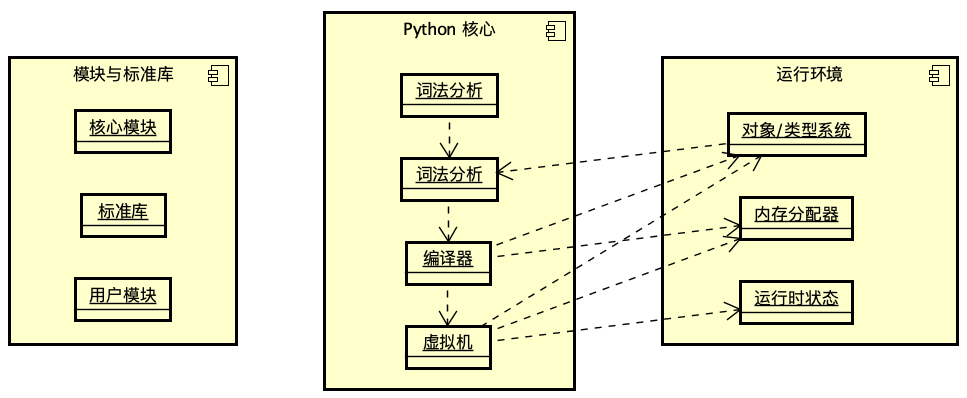
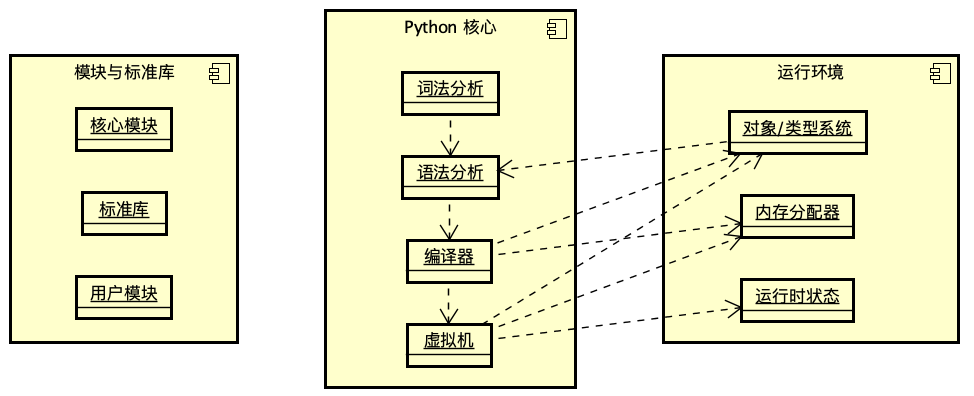
fix bug

diff --git a/python/pyobject2.md b/python/pyobject2.md
@@ -2,19 +2,19 @@
  * @Author: Hiseh
  * @Date: 2020-08-15 11:06:24
  * @LastEditors: Hiseh
- * @LastEditTime: 2020-08-15 22:25:44
+ * @LastEditTime: 2020-08-15 23:21:10
  * @Description: 
 -->
 
 # Python对象的本质
 
-为了进一步了解Python中对象概念，我们需要看看Python源码，下面我都会用`Python 3.7.4`举例子说明，使用`Python 2`的读者请注意，2和3差别还是很大的。
+为了进一步了解Python中对象概念，我们应该看看Python源码，下面我会用`Python 3.7.4`举例子说明，使用`Python 2`的读者请注意，2和3差别还是很大的。
 
 ## Python总体架构
 
 ![Python架构](../img/pyobject/arch_1.png)
 
-如图所示，Python总体架构可分为三部分，左边是Python自带的各种模块（Core Modules）、库（Library）以及用户自定义模块（User-defined Modules）。最右边是Python运行时环境，包括对象/类型系统（Object/Type Structures），内存分配器（Memory Allocator）和运行时状态（Current State of Python）。运行时状态维护了解释器在执行字节码时不同状态之间的切换动作，可以简单理解为大个有穷状态机。内存分配器负责创建和销毁对象是对内存的分配及回收动作。**对象/类型系统负责管理Python各种对象和类型体系，是我们重点关注部分。**
+如图所示，Python总体架构可分为三部分，左边是Python自带的各种模块（Core Modules）、库（Library）以及用户自定义模块（User-defined Modules）。最右边是Python运行时环境，包括对象/类型系统（Object/Type Structures），内存分配器（Memory Allocator）和运行时状态（Current State of Python）。运行时状态维护了解释器在执行字节码时不同状态之间的切换动作，可以简单理解为大个有穷状态机。内存分配器负责创建和销毁对象时内存的分配及回收动作。**对象/类型系统负责管理Python各种对象和类型体系，是本文重点关注部分。**
 <br/>
 中间为Python核心，箭头是Python运行时的数据流方向。词法分析（Scanner）负责把源码切分成一个个token，语法分析（Parser）负责建立抽象语法树（AST），编译器（Compiler）负责生成字节码，最后由虚拟机（Code Evaluator）来执行字节码。核心和运行环境之间的虚线表示模块之间**调用和修改**关系。
 
@@ -27,18 +27,18 @@
 -  **Doc** 和 **Grammar** 包含各种文档文件。
 - **include** 包含所有C头文件，如果我们要编译自定义模块扩展Python，需要用到这里的文件。
 - **Lib** 包含所有Python语言编写的标准库。
-- **Modules** 包含所有C语言编写的标准库。通常对速度要求高的库用C写，在Modules下，对速度不敏感的用Python写，在Lib下。
+- **Modules** 包含所有C语言编写的标准库。通常对速度要求高的库用C写，在Modules下；对速度不敏感的用Python写，在Lib下。
 - **Parser** 包含Python核心的词法和语法分析部分，此外还包含语法分析工具，方便我们调试Python环境。
 - **Python** 包含Python核心的编译器及虚拟机部分。
 - **PCBuild** 包含VS的工程文件。
 - **Mac** 包含Mac环境编译设置文件（Makefile格式）
 - **Object** 包含所有Python内置对象，本文仅仅关注此模块内容。
 
-Python源码仅提供Visual Studio和Makefile格式的工程文件，可以找第三方Makefile转CMake工具转换成CMake项目。
+Python源码仅提供Visual Studio和Makefile格式的工程文件，习惯CMake的用户可以找第三方Makefile转CMake工具转换成CMake项目。
 
 ## Python一切对象的根基——PyObject
 
-常见的面向对象语言都有**类**和**对象**两个概念，Python里`class`也是一种对象，它们通常成为`type`（类型对象），`class`实例化的对象也叫对象，我们称为**实例对象**。上页我们还说了可变对象和不可变对象的区别，在Python中还有定长对象和不定长对象概念，它们之间区别如下：
+常见的面向对象语言都有**类**和**对象**两个概念，但Python里概念不太一样。在Python里，`class`也是一种对象，它们通常被称为**类型对象**（`type`），`class`实例化的产出物也叫对象，我们称为**实例对象**（`object`）。上页我们还介绍了可变对象和不可变对象，在Python中还有定长对象和不定长对象概念，它们之间区别如下：
 |类别|定义|
 |:--:|:--|
 |可变对象|对象创建后可以修改，修改不会改变对象地址|
@@ -61,9 +61,9 @@ typedef struct {
 } PyVarObject;
 ```
 
-从代码里可以看到，两个根对象`PyVarObject`为不定长对象的根，`PyObject`是定长对象和`PyVarObject`的根。
+从代码里可以看到，`PyVarObject`为不定长对象的根，`PyObject`是定长对象和`PyVarObject`的根。
 
-我们首先分析`PyObject`，结构体第一行是个宏`_PyObject_HEAD_EXTRA`，这个宏定义也在*object.h*里：
+首先看看`PyObject`，结构体第一行是个宏`_PyObject_HEAD_EXTRA`，这个宏定义也在*object.h*里：
 
 ```c
 // 这个宏仅仅用来跟踪Python调用过程时，增加个双向链表，正常编译会略过。
@@ -80,7 +80,7 @@ typedef struct {
 #endif
 ```
 
-第二行定了一个引用计数变量`ob_refcnt;`，`Py_ssize_t`就是`intptr_t`的别名，可以简单理解成有符号的`size_t`。第三行定义了类型指针`ob_type`，指向对象的类型对象。
+第二行定了一个引用计数变量`ob_refcnt`，`Py_ssize_t`就是`intptr_t`的别名，可以简单理解成有符号的`size_t`。第三行定义了类型指针`ob_type`，指向对象的类型对象。
 
 接着看`PyVarObject`，它在`PyObject`基础上增加了`ob_size`字段，用来记录元素个数。
 
@@ -91,7 +91,7 @@ typedef struct {
 #define PyObject_VAR_HEAD   PyVarObject ob_base;
 ```
 
-比如定长对象`PyFloatObject`，只需要在`PyObject`基础上加个`double`的值变量：
+比如定长对象`PyFloatObject`，只需要在`PyObject`基础上加个`double`值变量：
 
 ```c
 typedef struct {
@@ -100,19 +100,19 @@ typedef struct {
 } PyFloatObject
 ```
 
-而变长对象`PyListObject`，则在`PyVarObject`基础上两个变量，一个动态数组总长度，一个为数组指针。
+而变长对象`PyListObject`，则在`PyVarObject`基础上增加两个变量，一个动态数组总长度，一个为数组指针。
 
 ```c
 typedef struct {
     PyObject_VAR_HEAD
-    PyObject **ob_item;     //数组指针，数组保存元素指针。
-    Py_ssize_t allocated;   //数组长度，注意，与PyVarObject中定义的ob_size元素个数区别。
+    PyObject **ob_item;     //数组指针，数组里保存元素指针。
+    Py_ssize_t allocated;   //数组长度，注意与PyVarObject中定义的ob_size元素个数区别。
 } PyListObject;
 ```
 
-> 这里特别说一下`int`对象类型，*Python 2*里`int`也是定长对象，但到了*Python 3*，在`PyLongObject`里用一个`ob_digit`数组管理整数，最后整数对象的值是`SUM(for i=0 through abs(ob_size)-1) ob_digit[i] * 2**(SHIFT*i)`，`SHIFT`表示每个数字占有的位数。
+> 这里特别解释一下`int`对象类型，*Python 2*里`int`是定长对象，但到了*Python 3*，则去掉`PyIntObject`对象，改为`PyLongObject`，`PyLongObject`里用一个`ob_digit`数组管理整数，最后整数对象的值是`SUM(for i=0 through abs(ob_size)-1) ob_digit[i] * 2**(SHIFT*i)`，其中`SHIFT`表示每个数字占有的位数。
 > 
-> 为了证明整数是变长对象我们可以用一下代码验证
+> 为了证明整数是变长对象，可以用代码验证
 > ```py
 > >>> sys.getsizeof(1000000000)
 > 28
@@ -122,7 +122,7 @@ typedef struct {
 
 ### 初始化对象
 
-*object.h*中还有两个初始化对象的宏也重要
+*object.h*中有两个初始化对象的宏也重要
 
 ```c
 #define PyObject_HEAD_INIT(type)        \
@@ -130,7 +130,7 @@ typedef struct {
     1, type },
 ```
 
-从名字就能看出来`PyObject_HEAD_INIT`负责初始化定长对象，它会把引用计数（`ob_refcnt`）设为1（因为Python里`ob_refcnt`就会触发回收机制），同时设定对象为传入的类型。`_PyObject_EXTRA_INIT`也是个宏，更简单了，就是个标记位。
+从名字就能看出来`PyObject_HEAD_INIT`负责初始化定长对象，它会把引用计数（`ob_refcnt`）设为1（因为Python里`ob_refcnt == 0`就会触发回收机制），同时设定对象的传入类型。`_PyObject_EXTRA_INIT`也是个宏，就是个标记位，在调试时用。
 
 ```
 #define PyVarObject_HEAD_INIT(type, size)       \
@@ -139,20 +139,18 @@ typedef struct {
 
 `PyVarObject_HEAD_INIT`负责初始化不定长对象，它除了调用`PyObject_HEAD_INIT`部分外，还会设定`ob_size`元素。
 
-看完`PyObject`源码，我们发现所有Python对象，内存开始几个字节内容都是固定的，对象开头都是引用计数和类型指针，变长对象还包括元素个数。这么设计当然是方便实现继承了，但系统却无法凭这几个字节区分出不同的对象类型，怎么判断它们所支持的操作呢，而且上面初始化过程也没看到分配内存的步骤，凭常识也能知道初始化不会这么简单。
+看完`PyObject`源码，我们发现所有Python对象，内存开始的几个字节内容都是统一的，对象开头是引用计数和类型指针，变长对象还包括元素个数。这么设计当然是方便实现继承了，但系统无法凭这几个字节区分出不同的对象类型，怎么判断它们所支持的操作呢，而且上面初始化过程也没看到分配内存的步骤，凭常识也能知道初始化不会这么简单。
 
-这里是Python一个容易让人迷惑的地方：对象和类型对象，上面的问题都是通过类型对象管理的。
+## PyTypeObject 对象的元信息
 
-## PyTypeObject对象的元信息
-
-上页我们了解过类型对象，知道**类型对象负责维护对象的特定信息，比如内存分配，比如特定的操作方法**。前面一节也说了`PyObject`结构体第三行定义了类型指针`ob_type`，指向对象的类型对象，现在我们就看一下这个类型对象。
+上一页我们了解过类型对象，知道**类型对象负责维护对象的特定信息，比如内存分配，特定的操作方法**。前一节也说了`PyObject`结构体第三行定义了类型指针`ob_type`，指向对象的类型对象，现在我们就看一下这个类型对象。
 
 `PyTypeObject`也在*object.h*中定义，这个结构体比较长，只摘出我们关心的代码分析：
 
 ```c
 typedef struct _typeobject {
     PyObject_VAR_HEAD
-    const char *tp_name;        // 类型名称
+    const char *tp_name;                    // 类型名称
     Py_ssize_t tp_basicsize, tp_itemsize;   // 创建实例时所需的内存信息
 
     // 标准函数指针
@@ -166,7 +164,7 @@ typedef struct _typeobject {
     getattrofunc tp_getattro;
     setattrofunc tp_setattro;
 
-    struct _typeobject *tp_base;    // 父类对象指针
+    struct _typeobject *tp_base;            // 父类对象指针
 } PyTypeObject;
 ```
 
@@ -191,18 +189,18 @@ PyTypeObject PyFloat_Type = {
 
 `a`和`b`都是`PyFloatObject`结构体的实例，在`ob_fval`里保存了对应的数值。*类型对象*是一个`PyTypeObject`结构体，保存了类型名、内存分配信息以及浮点相关操作。类型对象指针`ob_type`指向类型对象，Python据此判断对象类型，进而获悉关于对象的元信息，如操作方法等。
 
-由此可见**float、a以及b等变量只是一个指向实际对象的指针**。
+由此可见**float、a以及b等变量都是指向实际对象的指针**。
 
 ### PyType_Type类型的类型
 
-看`PyFloatObject`第一行初始化`PyVarObject`的代码，传入了`PyType_Type`地址，`PyType_Type`又是什么？第一页[Python对象初探](./pyobject.md)里，我们知道`int`的类型是`type`对象，那么`type`的类型又是什么呢？
+上面`PyFloatObject`第一行初始化`PyVarObject`的代码，传入了`PyType_Type`地址，`PyType_Type`又是什么？第一页[Python对象初探](./pyobject.md)里，我们知道`int`的类型是`type`对象，那么`type`的类型又是什么呢？
 
 ```py
 >>> type(type)
 <class 'type'>
 ```
 
-`type`的类型还是`type`，那么这个`type`具体长啥样呢？它在*Objects/typeobject.c*里有定义，像`PyFloat_Type`，也是`PyTypeobject`的实例，同样代码很长，我们只看关键部分：
+`type`的类型还是`type`，到这我们很好奇这个`type`具体长啥样呢？它在*Objects/typeobject.c*里有定义，就像`PyFloat_Type`，它也是`PyTypeobject`的实例，同样代码很长，我们只看关键部分：
 
 ```c
 PyTypeObject PyType_Type = {
@@ -215,13 +213,13 @@ PyTypeObject PyType_Type = {
 
 ```
 
-看初始化`PyVarObject_HEAD_INIT`的参数，它把自己（`&PyType_Type`）传给`ob_type`，这下就明白了为什么Python中看到`type`的类型还是`type`。`type`看上去就是个普通的`PyTypeObject`实例，但它就像`PyObject`一样，是所有类型的根类型，我们一般叫它*元类型（meta class）*
+看初始化`PyVarObject_HEAD_INIT`的参数，它把自己（`&PyType_Type`）传给`ob_type`，这下就明白了为什么Python中看到`type`的类型还是`type`。`type`看上去就是个普通的`PyTypeObject`实例，但它就像`PyObject`一样，是所有类型的根类型，我们一般叫它**元类型（meta class）**
 
-上面拓扑图里可以加上`type`类型了：
+上面拓扑图里加上`type`类型对象后如下：
 
 ![有type的拓扑](../img/pyobject/c_obj_ref_2.png)
 
-我们回头再看`PyFloat_Type`实例代码，`tp_base`是**0**？！难道初始化时不需要初始化父类吗？肯定不符合面向对象的约定。我们看下编译器代码（*Python/pylifecycle.c*），发现编译器初始化时还调了`_Py_ReadyTypes`函数，依次初始化所有内置类型对象，初始化`PyFloat_Type`的代码在*Objects/object.c*里:
+我们回头再看`PyFloat_Type`实例代码，`tp_base`是**0**？！难道初始化时不需要初始化父类吗？肯定不符合面向对象的约定。需要去编译器代码（*Python/pylifecycle.c*）里看看Python是如何处理的，发现编译器初始化时还调了`_Py_ReadyTypes`函数，这个函数会依次初始化所有内置类型对象，其中初始化`PyFloat_Type`的代码在*Objects/object.c*里:
 
 ```c
 if (PyType_Ready(&PyFloat_Type) < 0)
@@ -257,13 +255,13 @@ PyTypeObject PyBaseObject_Type = {
 };
 ```
 
-代码里很清楚，`PyBaseObject_Type`是`object`的类型对象，它的`ob_type`也是`PyType_Type`，符合Python规范。
+现在明白了，`PyBaseObject_Type`是`object`的类型对象，它的`ob_type`也是`PyType_Type`，符合Python统一规范。
 
-到现在，我们总算弄清了Python中对象和类型的关系，再次完善拓扑图：
+到这里，我们总算弄清了Python中对象和类型的关系，再次完善拓扑图：
 
 ![完善的拓扑图](../img/pyobject/c_obj_ref_3.png)
 
 
-现在我们清楚了变量、对象和类型的关系，但Python如何管理对象声明周期呢？还需进一步分析。
+现在我们清楚了变量、对象和类型的关系，但Python如何管理对象生命周期呢？还需进一步分析。
 
 ~~Python对象生命周期（未完成）~~

diff --git a/python/pyobject.md b/python/pyobject.md
@@ -2,7 +2,7 @@
  * @Author: Hiseh
  * @Date: 2020-08-14 16:22:45
  * @LastEditors: Hiseh
- * @LastEditTime: 2020-08-15 22:50:19
+ * @LastEditTime: 2020-08-15 22:51:59
  * @Description: 源码
 -->
 
@@ -116,4 +116,4 @@ True
 
 看到这，算是明白Python变量、对象和类型的概念了，但这些东西在内存里实际是什么样的，我们还需要进一步分析。
 
-[下一页>>>](./pyobject2.md)&nbsp;&nbsp;Python对象的本质
+[Python对象的本质 >>>](./pyobject2.md)&nbsp;&nbsp;
